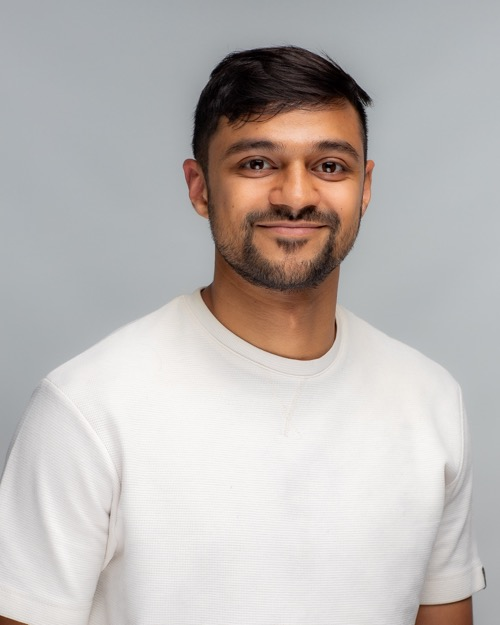
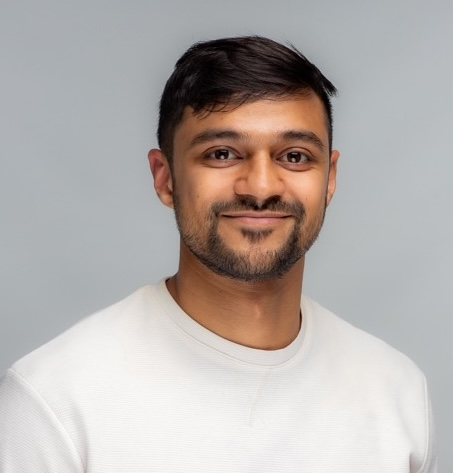
defense details and announcement

diff --git a/_sass/_base.scss b/_sass/_base.scss
@@ -1406,3 +1406,69 @@ ninja-keys::part(ninja-input-wrapper) {
   background-color: var(--global-theme-color);
   color: var(--global-text-color);
 }
+
+// defense-banner (temporary; remove after 2026-06-23)
+.defense-banner {
+  display: flex;
+  align-items: center;
+  flex-wrap: wrap;
+  gap: 0.5rem 1rem;
+  margin-bottom: 1.75rem;
+  padding: 0.9rem 1.25rem;
+  border-radius: 10px;
+  background-color: var(--global-theme-color);
+  color: #fff;
+  box-shadow: 0 4px 14px rgba(0, 0, 0, 0.12);
+
+  .defense-banner-icon {
+    font-size: 1.6rem;
+    line-height: 1;
+  }
+
+  .defense-banner-text {
+    display: flex;
+    flex-direction: column;
+    line-height: 1.3;
+    margin-right: auto;
+
+    strong {
+      font-size: 1.05rem;
+      letter-spacing: 0.01em;
+    }
+
+    span {
+      font-size: 0.92rem;
+      font-weight: 700;
+      color: #000;
+    }
+  }
+
+  .defense-banner-link {
+    flex-shrink: 0;
+    padding: 0.4rem 0.9rem;
+    border-radius: 999px;
+    font-weight: 600;
+    white-space: nowrap;
+    color: var(--global-theme-color);
+    background-color: #fff;
+    transition: transform 0.15s ease, box-shadow 0.15s ease;
+
+    &:hover {
+      text-decoration: none;
+      transform: translateY(-1px);
+      box-shadow: 0 3px 10px rgba(0, 0, 0, 0.18);
+    }
+  }
+
+  @media (max-width: 576px) {
+    .defense-banner-text {
+      margin-right: 0;
+      flex-basis: 100%;
+    }
+
+    .defense-banner-link {
+      flex-basis: 100%;
+      text-align: center;
+    }
+  }
+}

diff --git a/_news/announcement_16.md b/_news/announcement_16.md
@@ -1,0 +1,8 @@
+---
+layout: post
+date: 2026-06-21 12:00:00-0400
+inline: true
+related_posts: false
+---
+
+My PhD thesis defense will be live-streamed on **Tuesday, June 23, 2026 at 9:30 AM EST**! Zoom details are available [here](https://grad.gatech.edu/events/phd-defense-shehan-parmar). :mortar_board: